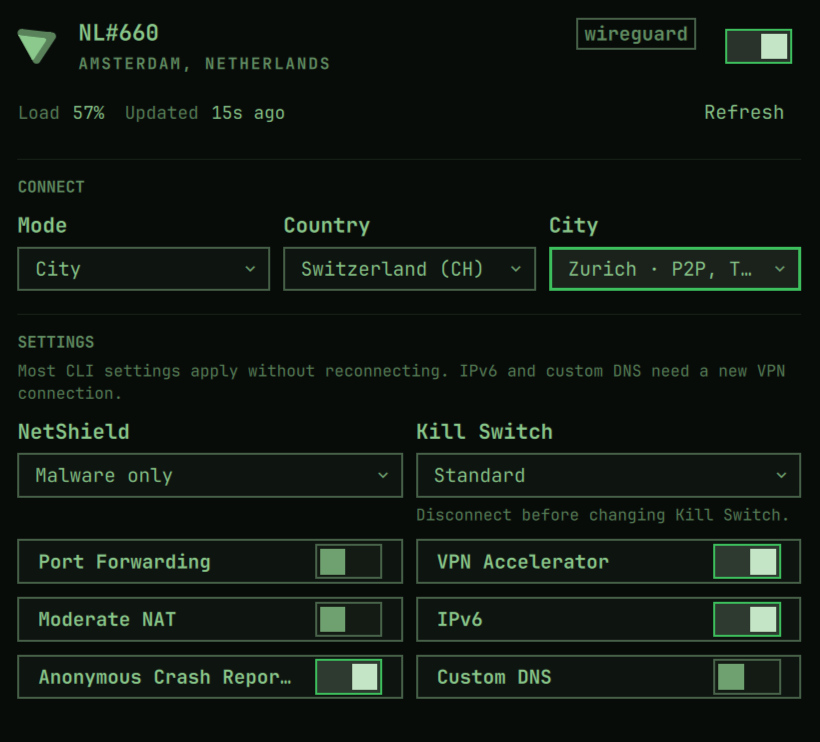
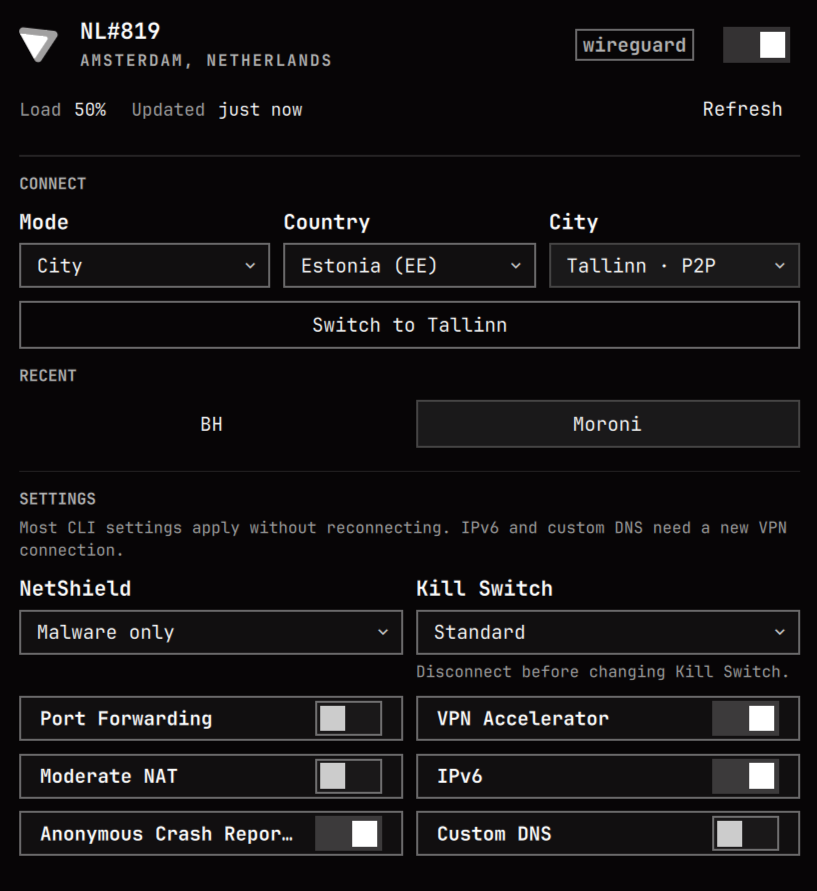
Refresh README screenshots for switching and RECENT

Changed region(s): [[0.0, 0.0, 0.9792, 0.9609], [0.7038, 0.031, 0.9792, 0.186], [0.9486, 0.434, 0.9792, 0.465]]

diff --git a/README.md b/README.md
@@ -1,8 +1,8 @@
 # Proton VPN for Omarchy
 
 <p align="center">
-  <img src="docs/images/panel-fastest.png" alt="Proton VPN panel connected to NL#660 in Amsterdam using the fastest server mode, with NetShield, Kill Switch, and toggle settings below" width="49%">
-  <img src="docs/images/panel-city.png" alt="Proton VPN panel in a green Omarchy theme choosing a Zurich, Switzerland city connection" width="49%">
+  <img src="docs/images/panel-fastest.png" alt="Proton VPN panel in a green Omarchy theme connected to NL#819 in Amsterdam on the fastest server, with recent BH and Moroni targets and settings below" width="49%">
+  <img src="docs/images/panel-city.png" alt="Proton VPN panel in a monochrome Omarchy theme connected to Amsterdam with City mode set to Tallinn, Estonia and a Switch to Tallinn button" width="49%">
 </p>
 
 Native Omarchy Quattro bar widget and keyboard-friendly panel for the official Proton VPN Linux CLI (`protonvpn`). NetworkManager is observed read-only so the bar reacts to tunnel changes without repeatedly starting the heavier CLI.
